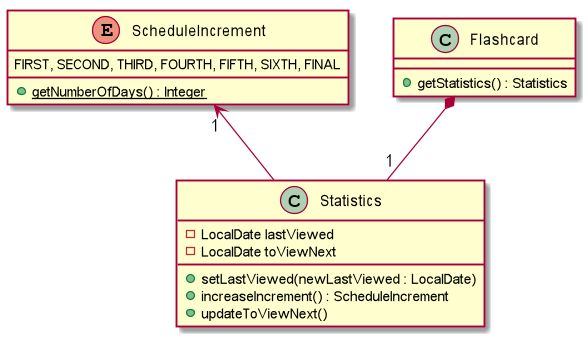
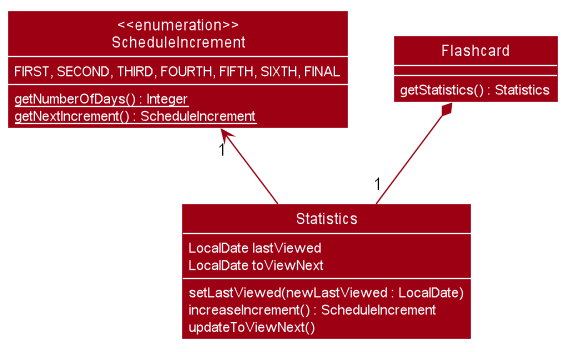
Minor changes to DG diagrams and enum class for remind feature use later

diff --git a/src/main/java/seedu/address/model/flashcard/ScheduleIncrement.java b/src/main/java/seedu/address/model/flashcard/ScheduleIncrement.java
@@ -13,6 +13,7 @@ public enum ScheduleIncrement {
     FINAL;
 
     private int numberOfDays;
+    private ScheduleIncrement nextIncrement;
 
     static {
         FIRST.numberOfDays = 1;
@@ -22,13 +23,29 @@ public enum ScheduleIncrement {
         FIFTH.numberOfDays = 5;
         SIXTH.numberOfDays = 5;
         FINAL.numberOfDays = 7;
+
+        FIRST.nextIncrement = SECOND;
+        SECOND.nextIncrement = THIRD;
+        THIRD.nextIncrement = FOURTH;
+        FOURTH.nextIncrement = FIFTH;
+        FIFTH.nextIncrement = SIXTH;
+        SIXTH.nextIncrement = FINAL;
+        FINAL.nextIncrement = FINAL;
     }
 
     /**
-     * Get int value of increment
+     * Get int value of increment.
      * @return int value of increment
      */
     public int getNumberOfDays() {
         return numberOfDays;
+    }
+
+    /**
+     * Get ScheduleIncrement value of next increment.
+     * @return ScheduleIncrement value of next increment
+     */
+    public ScheduleIncrement getNextIncrement() {
+        return nextIncrement;
     }
 }
